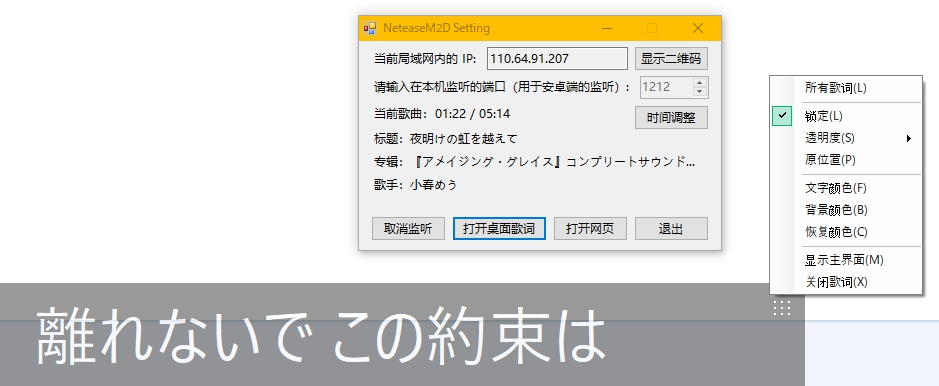
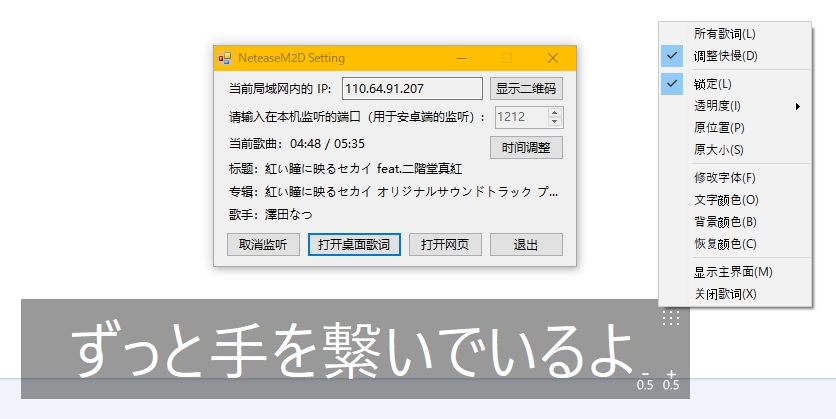
Add Sizeable Kanken Functions & MultiLyric In One Line

Changed region(s): [[0.0, 0.0311, 1.0, 1.0]]

diff --git a/NeteaseM2DServer/NeteaseM2DServer/Src/UI/LyricForm.Designer.cs b/NeteaseM2DServer/NeteaseM2DServer/Src/UI/LyricForm.Designer.cs
@@ -38,6 +38,7 @@
             this.menuItemLock = new System.Windows.Forms.ToolStripMenuItem();
             this.menuItemOpacity = new System.Windows.Forms.ToolStripMenuItem();
             this.menuItemPosition = new System.Windows.Forms.ToolStripMenuItem();
+            this.menuItemSize = new System.Windows.Forms.ToolStripMenuItem();
             this.toolStripSeparator2 = new System.Windows.Forms.ToolStripSeparator();
             this.menuItemFont = new System.Windows.Forms.ToolStripMenuItem();
             this.menuItemForeColor = new System.Windows.Forms.ToolStripMenuItem();
@@ -81,6 +82,7 @@
             this.menuItemLock,
             this.menuItemOpacity,
             this.menuItemPosition,
+            this.menuItemSize,
             this.toolStripSeparator2,
             this.menuItemFont,
             this.menuItemForeColor,
@@ -90,7 +92,7 @@
             this.menuItemShowMain,
             this.menuItemExit});
             this.contextMenuStrip.Name = "contextMenuStrip";
-            this.contextMenuStrip.Size = new System.Drawing.Size(154, 264);
+            this.contextMenuStrip.Size = new System.Drawing.Size(154, 286);
             // 
             // menuItemAllLyric
             // 
@@ -124,7 +126,7 @@
             // 
             this.menuItemOpacity.Name = "menuItemOpacity";
             this.menuItemOpacity.Size = new System.Drawing.Size(153, 22);
-            this.menuItemOpacity.Text = "透明度(&S)";
+            this.menuItemOpacity.Text = "透明度(&I)";
             // 
             // menuItemPosition
             // 
@@ -132,6 +134,13 @@
             this.menuItemPosition.Size = new System.Drawing.Size(153, 22);
             this.menuItemPosition.Text = "原位置(&P)";
             this.menuItemPosition.Click += new System.EventHandler(this.menuItemPosition_Click);
+            // 
+            // menuItemSize
+            // 
+            this.menuItemSize.Name = "menuItemSize";
+            this.menuItemSize.Size = new System.Drawing.Size(153, 22);
+            this.menuItemSize.Text = "原大小(&S)";
+            this.menuItemSize.Click += new System.EventHandler(this.menuItemSize_Click);
             // 
             // toolStripSeparator2
             // 
@@ -149,7 +158,7 @@
             // 
             this.menuItemForeColor.Name = "menuItemForeColor";
             this.menuItemForeColor.Size = new System.Drawing.Size(153, 22);
-            this.menuItemForeColor.Text = "文字颜色(&F)";
+            this.menuItemForeColor.Text = "文字颜色(&O)";
             this.menuItemForeColor.Click += new System.EventHandler(this.menuItemForeColor_Click);
             // 
             // menuForeBackColor
@@ -207,11 +216,11 @@
             this.buttonOption.Font = new System.Drawing.Font("Yu Gothic UI", 9.75F, System.Drawing.FontStyle.Regular, System.Drawing.GraphicsUnit.Point, ((byte)(128)));
             this.buttonOption.ForeColor = System.Drawing.Color.White;
             this.buttonOption.Image = global::NeteaseM2DServer.Properties.Resources.Option;
-            this.buttonOption.Location = new System.Drawing.Point(1314, 12);
+            this.buttonOption.Location = new System.Drawing.Point(1318, 8);
             this.buttonOption.Name = "buttonOption";
             this.buttonOption.Size = new System.Drawing.Size(24, 21);
             this.buttonOption.TabIndex = 1;
-            this.toolTip.SetToolTip(this.buttonOption, "左键弹出菜单，右键移动歌词。");
+            this.toolTip.SetToolTip(this.buttonOption, "左键弹出菜单，右键移动歌词。\r\n注意：仅当接触锁定时才能够移动窗口和调整大小。");
             this.buttonOption.UseVisualStyleBackColor = true;
             this.buttonOption.Click += new System.EventHandler(this.buttonOption_Click);
             // 
@@ -227,7 +236,7 @@
             this.buttonSlower.Font = new System.Drawing.Font("Yu Gothic UI", 9.75F, System.Drawing.FontStyle.Regular, System.Drawing.GraphicsUnit.Point, ((byte)(128)));
             this.buttonSlower.ForeColor = System.Drawing.Color.White;
             this.buttonSlower.Image = ((System.Drawing.Image)(resources.GetObject("buttonSlower.Image")));
-            this.buttonSlower.Location = new System.Drawing.Point(1284, 64);
+            this.buttonSlower.Location = new System.Drawing.Point(1292, 68);
             this.buttonSlower.Name = "buttonSlower";
             this.buttonSlower.Size = new System.Drawing.Size(24, 24);
             this.buttonSlower.TabIndex = 3;
@@ -242,7 +251,7 @@
             this.buttonFaster.Font = new System.Drawing.Font("Yu Gothic UI", 9.75F, System.Drawing.FontStyle.Regular, System.Drawing.GraphicsUnit.Point, ((byte)(128)));
             this.buttonFaster.ForeColor = System.Drawing.Color.White;
             this.buttonFaster.Image = ((System.Drawing.Image)(resources.GetObject("buttonFaster.Image")));
-            this.buttonFaster.Location = new System.Drawing.Point(1314, 64);
+            this.buttonFaster.Location = new System.Drawing.Point(1318, 68);
             this.buttonFaster.Name = "buttonFaster";
             this.buttonFaster.Size = new System.Drawing.Size(24, 24);
             this.buttonFaster.TabIndex = 2;
@@ -273,6 +282,7 @@
             this.FormBorderStyle = System.Windows.Forms.FormBorderStyle.None;
             this.MaximizeBox = false;
             this.MinimizeBox = false;
+            this.MinimumSize = new System.Drawing.Size(500, 67);
             this.Name = "LyricForm";
             this.ShowIcon = false;
             this.ShowInTaskbar = false;
@@ -289,7 +299,6 @@
 
         private System.Windows.Forms.Label labelLyric;
         private System.Windows.Forms.Timer timerShow;
-        private System.Windows.Forms.Timer timerHide;
         private System.Windows.Forms.Button buttonOption;
         private System.Windows.Forms.ColorDialog colorDialog;
         private System.Windows.Forms.ToolTip toolTip;
@@ -312,5 +321,7 @@
         private System.Windows.Forms.ToolStripMenuItem menuItemExit;
         private System.Windows.Forms.ToolStripMenuItem menuItemFont;
         private System.Windows.Forms.FontDialog fontDialog;
+        private System.Windows.Forms.ToolStripMenuItem menuItemSize;
+        private System.Windows.Forms.Timer timerHide;
     }
 }

diff --git a/NeteaseM2DServer/NeteaseM2DServer/Src/Model/Lyric.cs b/NeteaseM2DServer/NeteaseM2DServer/Src/Model/Lyric.cs
@@ -14,17 +14,19 @@ namespace NeteaseM2DServer.Src.Model {
         /// Lrc -> LyricPage
         /// </summary>
         public static LyricPage parseLrc(string lrcString) {
+            // Console.WriteLine(lrcString);
             LyricPage ret = new LyricPage();
             ret.Lines = new List<LyricLine>();
             foreach (String line in lrcString.Split(new string[] { "\n" }, StringSplitOptions.RemoveEmptyEntries)) {
-                // \[\d{1,2}:\d{1,2}.\d{1,3}\].*
-                // \[\d{1,2}:\d{1,2}\].*
-                Regex reg = new Regex("\\[\\d{1,2}:\\d{1,2}(.\\d{1,3})*\\].*");
+                
+                // (\[\d{1,2}:\d{1,2}.\d{1,3}\])+.*
+                // (\[\d{1,2}:\d{1,2}\])+.*
+                Regex reg = new Regex("(\\[\\d{1,2}:\\d{1,2}(.\\d{1,3})*\\])+.*");
                 if (!reg.IsMatch(line)) continue;
 
-                LyricLine l = LyricLine.parseLyricLine(line);
-                if (l != null)
-                    ret.Lines.Add(l);
+                List<LyricLine> ls = LyricLine.parseLyricLine(line);
+                if (ls != null && ls.Count != 0)
+                    ret.Lines.AddRange(ls);
             }
             if (ret.Lines.Count == 0) return null;
             ret.Lines.Sort();
@@ -66,40 +68,59 @@ namespace NeteaseM2DServer.Src.Model {
 
 
         /// <summary>
-        /// LrcLine -> LyricLine
+        /// LrcLine -> List(of LyricLine)
         /// </summary>
-        public static LyricLine parseLyricLine(string lrcLineString) {
+        public static List<LyricLine> parseLyricLine(string lrcLineString) {
 
             try {
-                LyricLine ret = new LyricLine();
+                List<LyricLine> ret = new List<LyricLine>();
+                List<string> timeStrs = new List<string>();
 
                 string[] sp = lrcLineString.Split(new string[] { "[", "]" }, StringSplitOptions.RemoveEmptyEntries);
 
                 // Lyric Content
                 if (sp.Length == 1)
                     return null;
-                else if (sp.Length == 2) {
-                    ret.Lyric = sp[1].Trim();
-                    if (ret.Lyric == "")
+                else if (sp.Length == 2) { // [1]2
+                    timeStrs.Add(sp[0]); // time
+                    
+                    LyricLine line = new LyricLine();
+                    line.Lyric = sp[1].Trim(); // content
+                    if (line.Lyric == "")
                         return null;
-                } else
-                    return null;
+
+                    ret.Add(line);
+                } else { // [1][2][3]4
+                    for (int i = 0; i < sp.Length - 1; i++) {
+                        timeStrs.Add(sp[i]); // time
+                       
+                        LyricLine line = new LyricLine();
+                        line.Lyric = sp[sp.Length - 1].Trim(); // content
+                        if (line.Lyric == "")
+                            continue;
+
+                        ret.Add(line);
+                    }
+                }
 
                 // Time
-                string[] tis = sp[0].Split(new string[] { ":", "." }, StringSplitOptions.RemoveEmptyEntries);
+                for (int i = 0; i < timeStrs.Count; i++) {
+                    string[] tis = timeStrs.ElementAt(i).Split(new string[] { ":", "." }, StringSplitOptions.RemoveEmptyEntries);
 
-                if (tis.Length == 2) // [00:00]
-                    ret.timeMilliSecond = 0;
-                else if (tis.Length == 3) { // [00:00.00]
-                    if (tis[2].Length == 1)
-                        ret.timeMilliSecond = int.Parse(tis[2] + "0"); // [00:00.0]
-                    else
-                        ret.timeMilliSecond = int.Parse(tis[2].Substring(0, 2));  // [00:00.00] [00:00.000]
-                } else
-                    return null;
+                    if (tis.Length == 2) // [00:00]
+                        ret.ElementAt(i).timeMilliSecond = 0;
+                    else if (tis.Length == 3) { // [00:00.00]
+                        if (tis[2].Length == 1)
+                            ret.ElementAt(i).timeMilliSecond = int.Parse(tis[2] + "0"); // [00:00.0]
+                        else
+                            ret.ElementAt(i).timeMilliSecond = int.Parse(tis[2].Substring(0, 2));  // [00:00.00] [00:00.000]
+                    } else
+                        return null;
 
-                ret.timeMinute = int.Parse(tis[0]);
-                ret.timeSecond = int.Parse(tis[1]);
+                    ret.ElementAt(i).timeMinute = int.Parse(tis[0]);
+                    ret.ElementAt(i).timeSecond = int.Parse(tis[1]);
+                }
+
                 return ret;
 
             } catch (Exception ex) {

diff --git a/NeteaseM2DServer/NeteaseM2DServer/Src/UI/LyricForm.cs b/NeteaseM2DServer/NeteaseM2DServer/Src/UI/LyricForm.cs
@@ -25,6 +25,7 @@ namespace NeteaseM2DServer.Src.UI {
 
         private LyricForm() {
             InitializeComponent();
+            this.Opacity = 0;
         }
 
         // LyricForm_Load LyricForm_FormClosing
@@ -34,7 +35,6 @@ namespace NeteaseM2DServer.Src.UI {
 
             contextMenuStrip.Renderer = new NativeRenderer(NativeRenderer.ToolbarTheme.MediaToolbar);
 
-            this.Opacity = 0;
             this.BackColor = Properties.Settings.Default.LyricBackColor;
             labelLyric.ForeColor = Properties.Settings.Default.LyricForeColor;
 
@@ -52,6 +52,8 @@ namespace NeteaseM2DServer.Src.UI {
                 this.Top = Properties.Settings.Default.LyricTop;
             if (Properties.Settings.Default.LyricLeft != -1)
                 this.Left = Properties.Settings.Default.LyricLeft;
+            if (!Properties.Settings.Default.LyricSize.Equals(new Size(-1, -1)))
+                this.Size = Properties.Settings.Default.LyricSize;
 
             // 订阅移动窗口事件
             this.MouseDown += new System.Windows.Forms.MouseEventHandler(this.Object_MouseDown);
@@ -83,9 +85,10 @@ namespace NeteaseM2DServer.Src.UI {
         /// <summary>
         /// 检查退出条件
         /// </summary>
-        private void LyricForm_FormClosing(object sender, FormClosingEventArgs e) {
+        public void LyricForm_FormClosing(object sender, FormClosingEventArgs e) {
             Properties.Settings.Default.LyricTop = this.Top;
             Properties.Settings.Default.LyricLeft = this.Left;
+            Properties.Settings.Default.LyricSize = this.Size;
 
             e.Cancel = this.Opacity != 0;
             if (timerShow.Enabled) timerShow.Enabled = false;
@@ -367,16 +370,30 @@ namespace NeteaseM2DServer.Src.UI {
         /// </summary>
         private void menuItemPosition_Click(object sender, EventArgs e) {
             Computer My = new Computer();
-            this.Width = (int)(My.Screen.WorkingArea.Width * 0.8);
             this.Left = (My.Screen.Bounds.Width - this.Width) / 2;
             this.Top = My.Screen.WorkingArea.Height - this.Height;
+        }
+
+        /// <summary>
+        /// 菜单，原大小
+        /// </summary>
+        private void menuItemSize_Click(object sender, EventArgs e) {
+            Computer My = new Computer();
+            int left = this.Left;
+            int width = this.Width;
+            this.Width = (int)(My.Screen.WorkingArea.Width * 0.8);
+            this.Height = 100;
+            this.Left = left + width - this.Width;
+
+            Font newFont = new Font(labelLyric.Font.Name, 48F, labelLyric.Font.Style, System.Drawing.GraphicsUnit.Point);
+            labelLyric.Font = newFont;
+            Properties.Settings.Default.LyricFont = labelLyric.Font;
         }
 
         /// <summary>
         /// 菜单，透明度修改
         /// </summary>
         private void menuItemOpacitySubItem_Click(object sender, EventArgs e) {
-
             foreach (ToolStripMenuItem item in menuItemOpacity.DropDownItems)
                 item.Checked = false;
             (sender as ToolStripMenuItem).Checked = true;
@@ -393,7 +410,6 @@ namespace NeteaseM2DServer.Src.UI {
             fontDialog.Font = labelLyric.Font;
             fontDialog.ShowDialog();
             Console.WriteLine(fontDialog.Font.Name);
-            // Font newFont = new Font(fontDialog.Font.Name, fontDialog.Font.Size, System.Drawing.FontStyle.Regular, System.Drawing.GraphicsUnit.Point);
             Properties.Settings.Default.LyricFont = labelLyric.Font = fontDialog.Font;
         }
 

diff --git a/NeteaseM2DServer/NeteaseM2DServer/Properties/Settings.Designer.cs b/NeteaseM2DServer/NeteaseM2DServer/Properties/Settings.Designer.cs
@@ -121,18 +121,6 @@ namespace NeteaseM2DServer.Properties {
         
         [global::System.Configuration.UserScopedSettingAttribute()]
         [global::System.Diagnostics.DebuggerNonUserCodeAttribute()]
-        [global::System.Configuration.DefaultSettingValueAttribute("-1")]
-        public int LyricLeft {
-            get {
-                return ((int)(this["LyricLeft"]));
-            }
-            set {
-                this["LyricLeft"] = value;
-            }
-        }
-        
-        [global::System.Configuration.UserScopedSettingAttribute()]
-        [global::System.Diagnostics.DebuggerNonUserCodeAttribute()]
         [global::System.Configuration.DefaultSettingValueAttribute("Yu Gothic UI, 48pt")]
         public global::System.Drawing.Font LyricFont {
             get {
@@ -140,6 +128,30 @@ namespace NeteaseM2DServer.Properties {
             }
             set {
                 this["LyricFont"] = value;
+            }
+        }
+        
+        [global::System.Configuration.UserScopedSettingAttribute()]
+        [global::System.Diagnostics.DebuggerNonUserCodeAttribute()]
+        [global::System.Configuration.DefaultSettingValueAttribute("-1, -1")]
+        public global::System.Drawing.Size LyricSize {
+            get {
+                return ((global::System.Drawing.Size)(this["LyricSize"]));
+            }
+            set {
+                this["LyricSize"] = value;
+            }
+        }
+        
+        [global::System.Configuration.UserScopedSettingAttribute()]
+        [global::System.Diagnostics.DebuggerNonUserCodeAttribute()]
+        [global::System.Configuration.DefaultSettingValueAttribute("-1")]
+        public int LyricLeft {
+            get {
+                return ((int)(this["LyricLeft"]));
+            }
+            set {
+                this["LyricLeft"] = value;
             }
         }
     }

diff --git a/NeteaseM2DServer/NeteaseM2DServer/Src/UI/MainForm.cs b/NeteaseM2DServer/NeteaseM2DServer/Src/UI/MainForm.cs
@@ -305,6 +305,21 @@ namespace NeteaseM2DServer.Src.UI {
             Properties.Settings.Default.Top = this.Top;
             Properties.Settings.Default.Left = this.Left;
             Properties.Settings.Default.Save();
+
+            if (LyricForm.getInstance().Opacity != 0) {
+                e.Cancel = true;
+                LyricForm.getInstance().Close();
+                new Thread(new ThreadStart(() => {
+                    while (true) {
+                        if (LyricForm.getInstance().Opacity == 0) {
+                            this.Invoke(new Action(() => {
+                                this.Close();
+                            }));
+                            break;
+                        }
+                    }
+                })).Start();
+            }
         }
 
         /// <summary>
